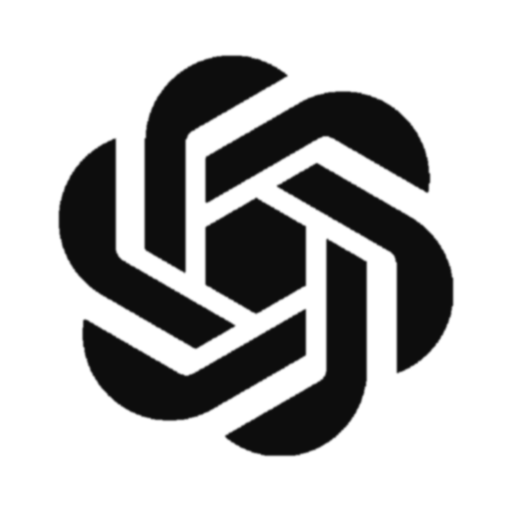
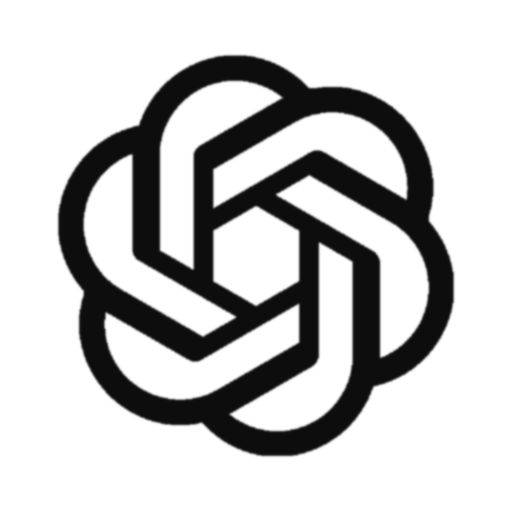
fix: corregir inversión de máscara en extracción de íconos (CapCut y otros)
El color de fondo se detectaba como el color mayoritario dentro del
bounding box del glifo, lo cual falla cuando la tinta cubre más de la
mitad de su propio bounding box (ej. el moño de CapCut): el color
mayoritario terminaba siendo la tinta negra, invirtiendo la máscara.

Se agrega chequeo de seguridad: si el bg detectado sale casi negro
(nunca válido, la tinta objetivo ya es negro), se usa el color real
del fondo exterior de la imagen en su lugar.

Confirmado con capturas en vivo del navegador del usuario + md5sum
del archivo desplegado: no era caché, era el pipeline.

diff --git a/docs/session-logs/2026-08-18.md b/docs/session-logs/2026-08-18.md
@@ -69,3 +69,23 @@
 ### Contexto para próxima sesión
 - Rama de trabajo: `develop` (confirmado antes de este commit, no se tocó `main`).
 - No se hizo deploy ni push en esta sesión.
+
+## Sesión 20:22 - Fix real del pipeline de íconos (CapCut no coincidía con el logo)
+
+### Diagnóstico
+- El usuario reportó, con capturas en vivo de su navegador, que el ícono de CapCut seguía sin ser reconocible (triángulos sólidos sin huecos ni la línea diagonal) después del fix anterior (commit `be2cc8c`), y descartó explícitamente que fuera caché (había reiniciado `npm run dev`).
+- Se confirmó por `md5sum` que el archivo desplegado en su máquina coincidía exactamente con el output del pipeline — es decir, el bug estaba en el algoritmo de extracción, no en caché/despliegue.
+- Causa raíz: `extract_glyph_mask` elegía el color de fondo como el color mayoritario dentro del bounding box del glifo. En logos de trazo grueso donde la tinta cubre más de la mitad de su propio bounding box (el moño de CapCut), ese color mayoritario terminaba siendo la tinta negra, no el fondo — invirtiendo la máscara resultante (se quedaba solo con el contorno delgado y los huecos, perdiendo el relleno sólido y la línea diagonal).
+
+### Fix
+- Se agregó un chequeo de seguridad en `extract_glyph_mask`: si el color de fondo detectado es casi negro (nunca válido, ya que el color de tinta objetivo ya es negro), se usa en su lugar el color real del fondo exterior de la imagen (el que ya se detecta vía flood-fill desde las esquinas).
+- Re-generados y verificados visualmente contra el logo real: `capcut.png` (ahora conserva ambos huecos trapezoidales y la línea diagonal), `chatgpt.png` y `runway.png` (ajuste menor). `higgsfield.png`, `davinci-resolve.png`, `adobe.png` y `affinity.png` no cambiaron (`md5sum` idéntico) — no estaban afectados por este bug.
+- Archivos escritos directamente en la máquina del usuario vía el bridge de dispositivo, y verificados con `md5sum` en su disco real antes de este commit.
+
+### Archivos modificados
+- `public/programa/img/dock/capcut.png`, `chatgpt.png`, `runway.png`
+- `CHANGELOG.md`
+
+### Pendientes
+- Correr `npm run build` completo en la máquina del usuario antes de cualquier deploy (pendiente de sesiones anteriores).
+- Confirmación visual del usuario en su navegador.

diff --git a/CHANGELOG.md b/CHANGELOG.md
@@ -16,6 +16,12 @@ y este proyecto adhiere a [Semantic Versioning](https://semver.org/lang/es/).
 - Nuevos estilos `.pcd-axis__toggle`, `.pcd-axis__toggle-btn`, `.pcd-content-dock*` en `programa.css`.
 - Archivos: `src/pages/ProgramaCreacionDigital.tsx`, `src/i18n/translations.ts`, `src/styles/programa.css`, `public/programa/img/dock/*.png` (nuevos).
 
+### Corregido — Íconos del dock (ChatGPT, Runway, CapCut) no coincidían con el logo real
+
+- El script de extracción de íconos determinaba el color de fondo a partir del color mayoritario dentro del bounding box del logo. En logos con trazo grueso que cubre más de la mitad de su propio bounding box (como el moño de CapCut), ese color mayoritario terminaba siendo la tinta negra del logo, no el fondo real — invirtiendo la máscara (solo quedaban el contorno delgado y los huecos, se perdía el relleno sólido y la línea diagonal).
+- Agregado un chequeo de seguridad: si el color de fondo detectado sale casi negro (lo cual nunca es válido, ya que el color de tinta objetivo ya es negro), se usa en su lugar el color real del fondo exterior de la imagen. Corrige CapCut (ahora conserva ambos huecos trapezoidales y la línea diagonal) y refina levemente ChatGPT y Runway; Higgsfield, DaVinci Resolve, Adobe y Affinity no cambiaron (no estaban afectados).
+- Archivos: `public/programa/img/dock/capcut.png`, `chatgpt.png`, `runway.png`.
+
 ### Corregido — Portada de ChocoSapiens recortada en el home
 
 - La card ancha de proyectos del home usaba `background-size: cover`, y como `chocosapiens.webp` (910×510) es más ancho que el marco de la tarjeta (853:529), el texto y los nombres quedaban recortados en ambos bordes.
